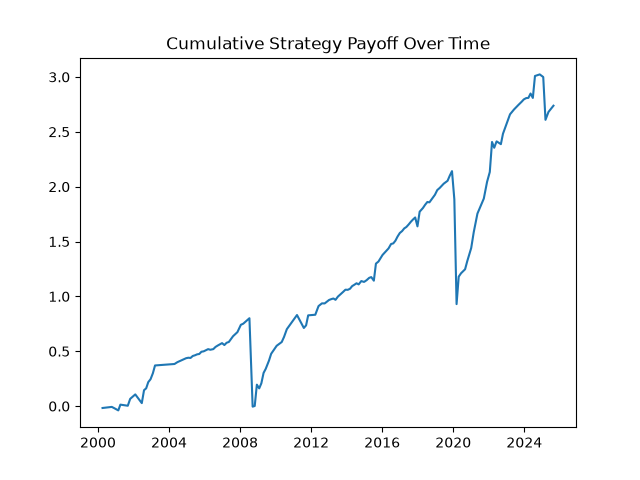
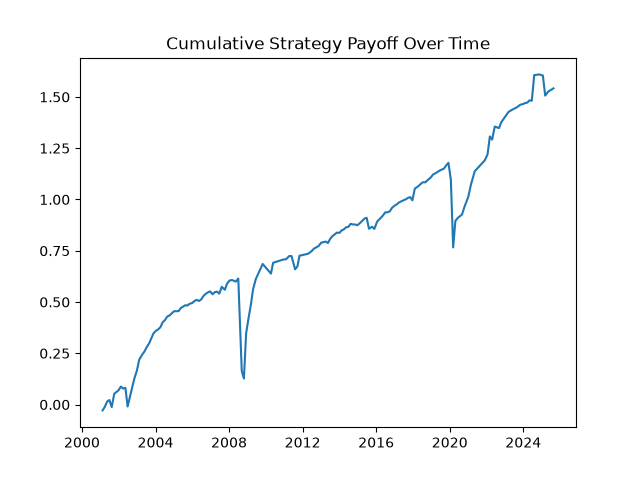
update

diff --git a/Variance_swap_trading/variance_swap.md b/Variance_swap_trading/variance_swap.md
@@ -40,7 +40,7 @@ If you are shorting a variance swap you belvie that the realised voltilty will b
 3. Estimating using the voltaitlty surface
 
 
-lets adress the first one, the rules of thumb. 90% put option implied volility, what this is saying for a underlying strike price $\lambda$, we use $0.9\lambda$. This idea comes from Carr & Madan (1998), “Towards a Theory of Volatility Trading” 
+Lets Address the first one, This idea comes from Carr & Madan (1998), “Towards a Theory of Volatility Trading” 
 
 "
 *By combining static positions in options with dynamic trading in futures, payo s related to realized volatility can be achieved whichhave either no exposure to price, or whichhave an exposure contingent on certain price levels being achieved in spefcied time intervals*" 

diff --git a/README.md b/README.md
@@ -7,6 +7,5 @@ the strategies I address are:
 - Volatility risk premium trading, gamma hedging
 - Volatility trading with variance swaps
 
-lets start by making important definitions, firstly, what is volatility, variance and their distance. 
 
 [Variance Swaps](<Variance_swap_trading/variance_swap.md>)  
